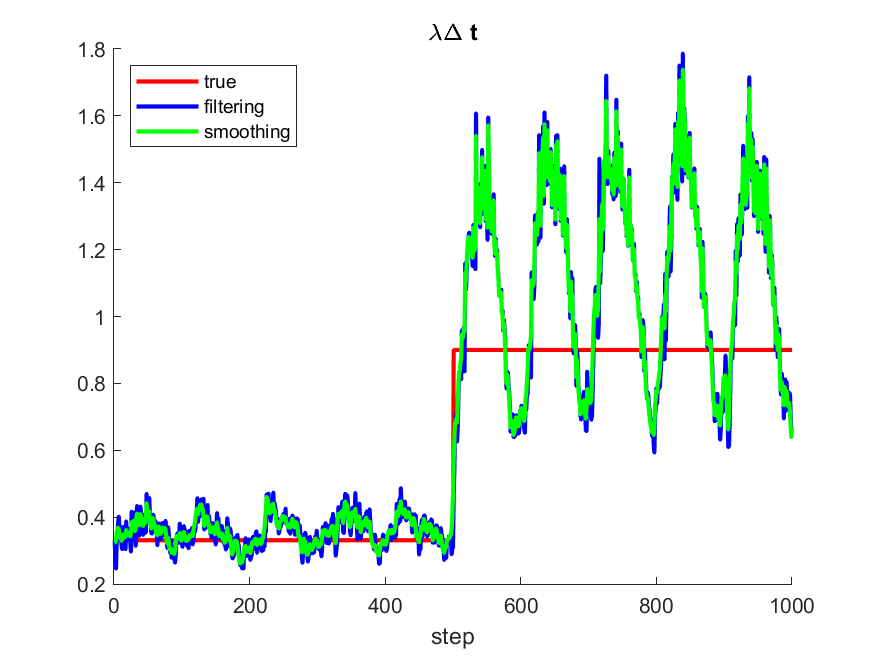
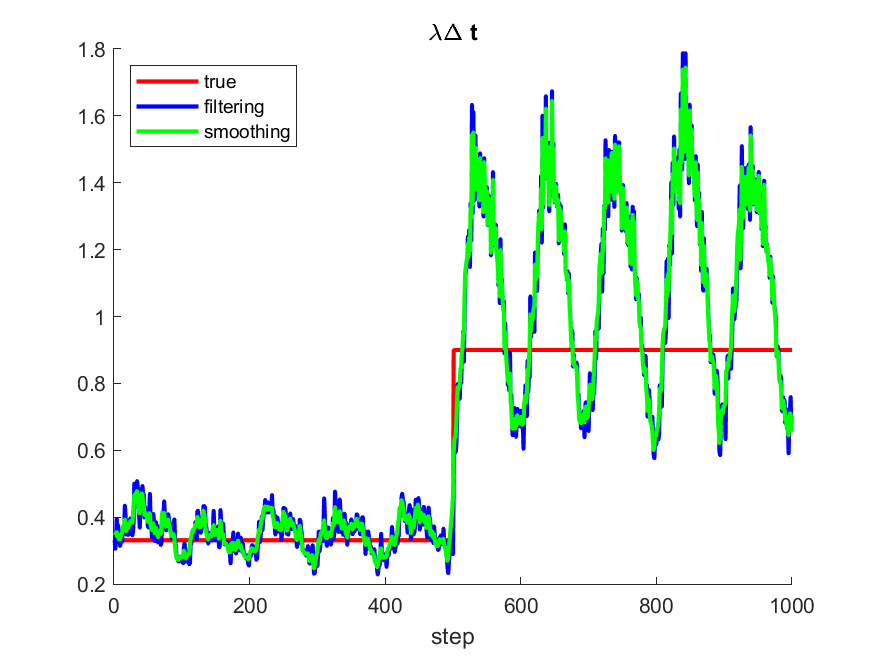
more examples

Changed region(s): [[0.5246, 0.0915, 0.9257, 0.7012], [0.1234, 0.7317, 0.5246, 0.8841], [0.4937, 0.6402, 0.5246, 0.7317]]

diff --git a/README.md b/README.md
@@ -3,22 +3,28 @@
 
 The derivation includes 2 files: 1) a initial version & 2) a more meaniful, compact version (matrix form)
 
-Here, I showed 2 examples:
+Here, I showed 3 examples:
 
 ## Example 1: jump lambda + jump nu
 
-<img src="https://github.com/weigcdsb/COM_POISSON/blob/main/lambda_1.png" width="400"/><img src="https://github.com/weigcdsb/COM_POISSON/blob/main/nu_1.png" width="400"/>
+<img src="https://github.com/weigcdsb/COM_POISSON/blob/main/theta1_1.png" width="400"/><img src="https://github.com/weigcdsb/COM_POISSON/blob/main/theta2_1.png" width="400"/><img src="https://github.com/weigcdsb/COM_POISSON/blob/main/lambda_1.png" width="400"/><img src="https://github.com/weigcdsb/COM_POISSON/blob/main/nu_1.png" width="400"/>
 
-## Example 2: jump lambda + cos nu
+## Example 2: jump lambda + linear nu
 
-<img src="https://github.com/weigcdsb/COM_POISSON/blob/main/lambda_2.png" width="400"/><img src="https://github.com/weigcdsb/COM_POISSON/blob/main/nu_2.png" width="400"/>
+<img src="https://github.com/weigcdsb/COM_POISSON/blob/main/theta1_2.png" width="400"/><img src="https://github.com/weigcdsb/COM_POISSON/blob/main/theta2_2.png" width="400"/><img src="https://github.com/weigcdsb/COM_POISSON/blob/main/lambda_2.png" width="400"/><img src="https://github.com/weigcdsb/COM_POISSON/blob/main/nu_2.png" width="400"/>
 
-Well, looks good.
-But here's one problem. The algorithm is very easy to get singular matrix. That means, it correct "too hard"... Maybe we can add some constraint for theta updating? Maybe that will make the W matrix meaningless...
+
+## Example 3: jump lambda + cosine nu
+
+<img src="https://github.com/weigcdsb/COM_POISSON/blob/main/theta1_3.png" width="400"/><img src="https://github.com/weigcdsb/COM_POISSON/blob/main/theta2_3.png" width="400"/><img src="https://github.com/weigcdsb/COM_POISSON/blob/main/lambda_3.png" width="400"/><img src="https://github.com/weigcdsb/COM_POISSON/blob/main/nu_3.png" width="400"/>
+
+
+Well, looks good expect for example 3.
+Here's another problem. The algorithm is very easy to get singular matrix. That means, it correct "too hard"... Maybe we can add some constraint for theta updating? Maybe that will make the W matrix meaningless...
 Also, I need to mention that the initial value is set as theta_true(1,:). The same reason: arbitrary initial value may make the algorithm get singular matrix.
 
 Maybe this is because when nu -> 0, the estimation of summation such as Z,... will shoot to inifinity.
 
-Another issue is that the updating of lambda is influenced by nu a lot. Maybe we can consider to reparametrize to mu and nu, where E(Y) = mu*(Delta t)? Then since mu and nu are orthogonal, that would be better. (https://journals.sagepub.com/doi/abs/10.1177/1471082X17697749)
+Another issue is that the updating of lambda is influenced by nu a lot (especially in example 3, because of bad simulation?). Maybe we can consider to reparametrize to mu and nu, where E(Y) = mu*(Delta t)? Then since mu and nu are orthogonal, that would be better. (https://journals.sagepub.com/doi/abs/10.1177/1471082X17697749)
 
 
